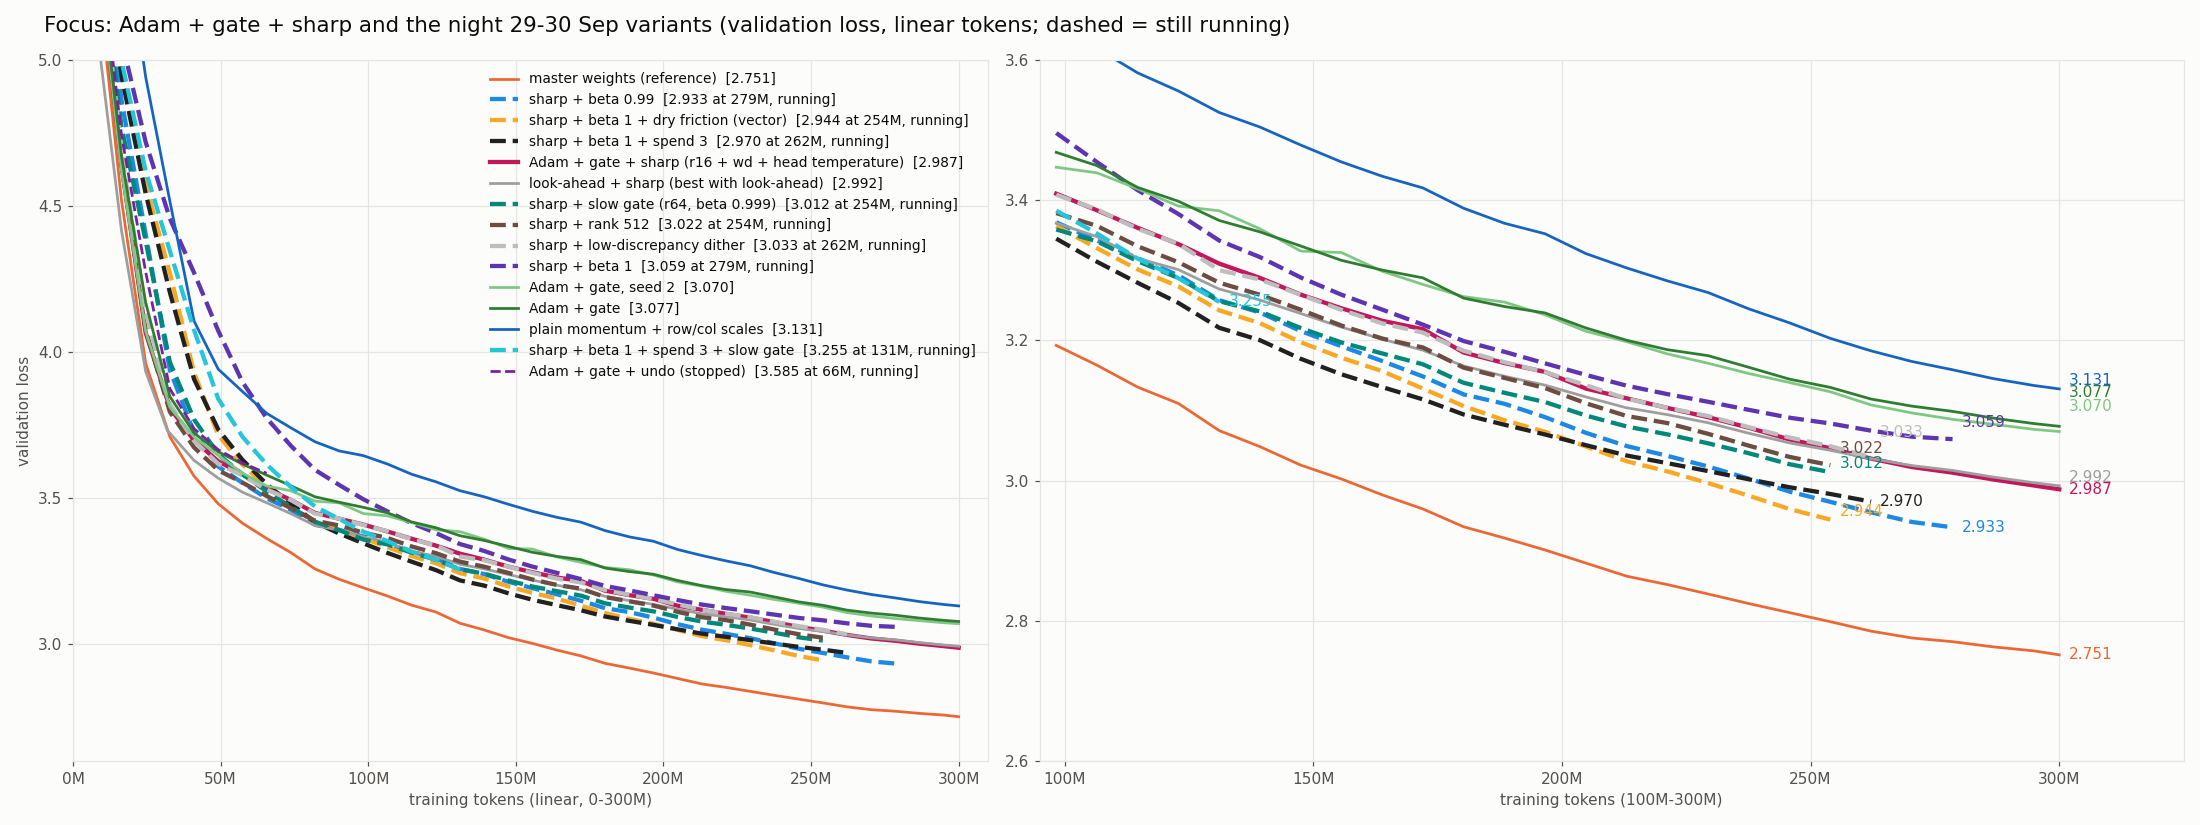
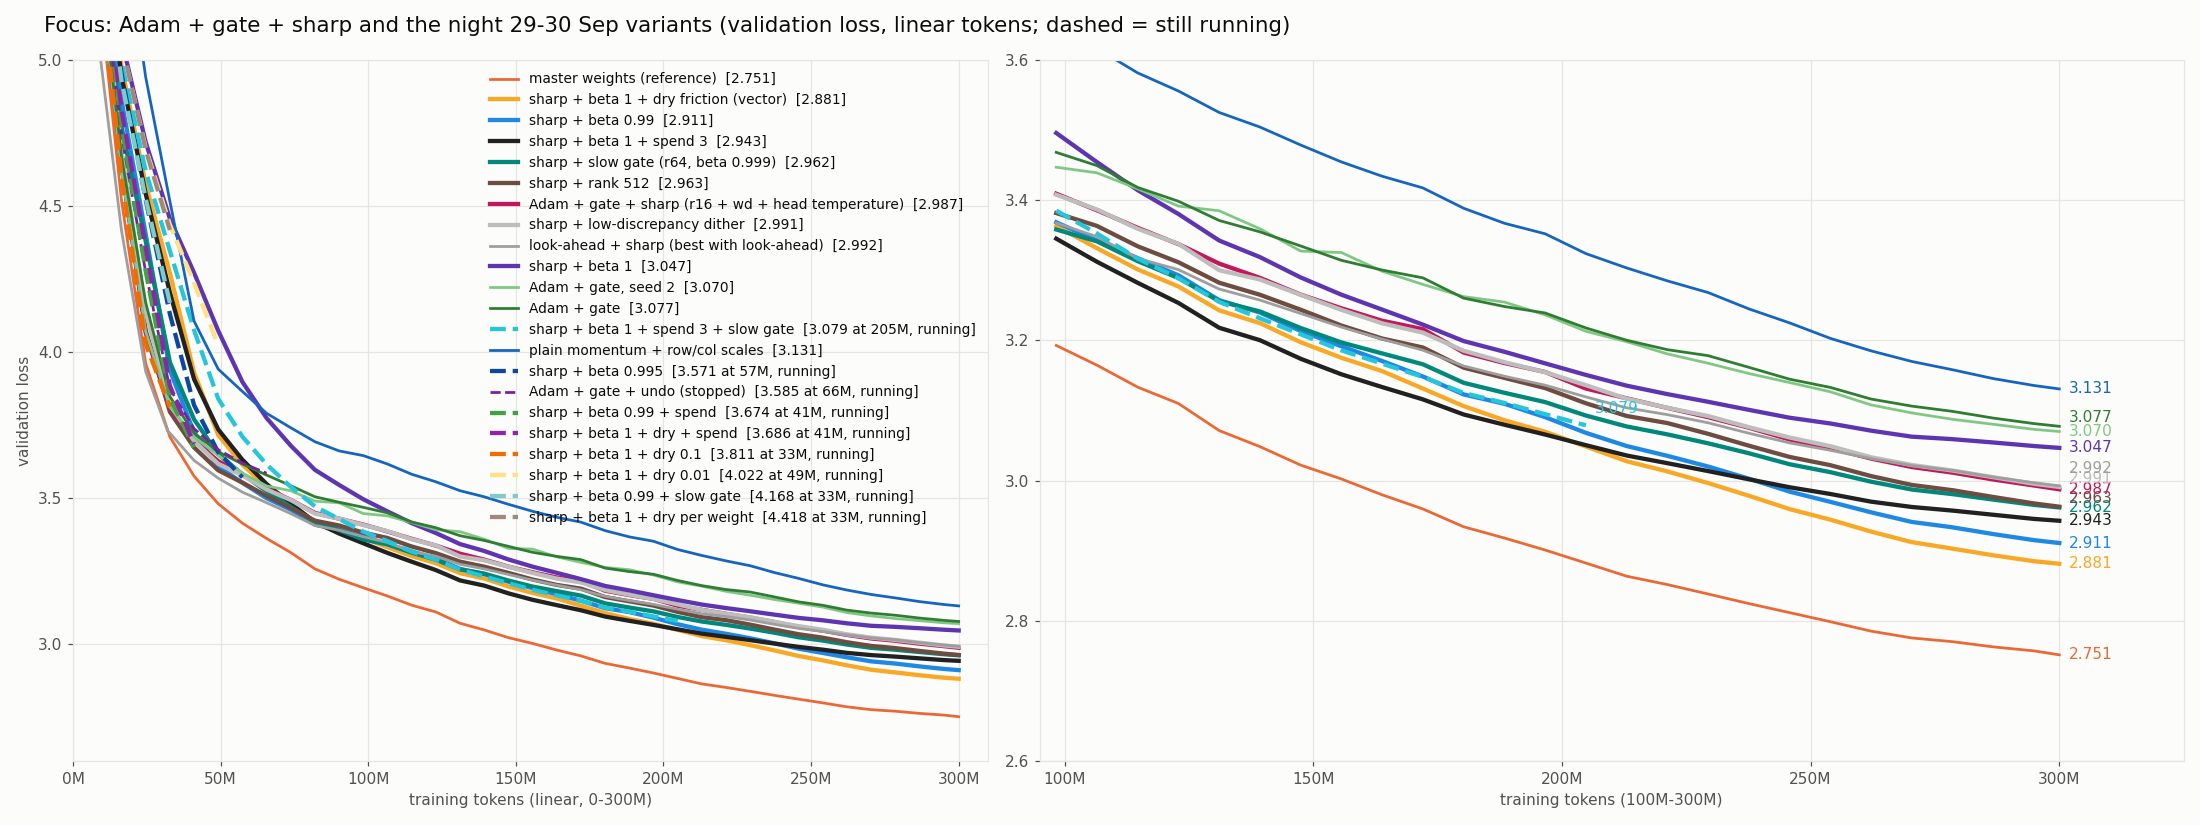
Night results: beta 1 + dry friction 2.8812 (gap to master 0.130); run index, overview

diff --git a/docs/overview/index.html b/docs/overview/index.html
@@ -157,15 +157,20 @@ ul.plain{margin:0; padding-left:18px; display:flex; flex-direction:column; gap:4
   <h2>What is running where</h2>
   <div class="tbl"><table>
     <tr><th>machine</th><th>run</th><th>what</th><th>expected</th></tr>
-    <tr><td>done</td><td class="mono">gvsharp_rc_s0</td><td><b>Adam + gate + sharp: 2.9875</b>, best without look-ahead (look-ahead + sharp 2.992; master 2.751). The base of tonight's runs</td><td class="num">01:45</td></tr>
-    <tr><td>mallard</td><td class="mono">gvsharp_b099_s0</td><td>sharp + β 0.99 (memory ~100 steps)</td><td class="num">~04:05</td></tr>
-    <tr><td>cackling</td><td class="mono">gvsharp_b1_s0</td><td>sharp + β 1 (no friction, relative flip rule, no cap)</td><td class="num">~04:05</td></tr>
-    <tr><td>harlequin</td><td class="mono">gvsharp_r512_s0</td><td>sharp + rank 512 (control: rank is not the limit)</td><td class="num">~04:15</td></tr>
-    <tr><td>gadwall</td><td class="mono">gvsharp_slowgate_s0</td><td>sharp + slow gate (rank-64 β 0.999 momentum must agree)</td><td class="num">~04:20</td></tr>
-    <tr><td>shoveler</td><td class="mono">gvsharp_dither_s0</td><td>sharp + low-discrepancy flip draw</td><td class="num">~04:10</td></tr>
-    <tr><td>pintail</td><td class="mono">gvsharp_dry_s0</td><td>sharp + β 1 + dry friction on the whole vector (1/33 per step)</td><td class="num">~04:15</td></tr>
-    <tr><td>mandarin</td><td class="mono">gvsharp_b1spend_s0</td><td>sharp + β 1 + spend 3 (a flip consumes the push that caused it)</td><td class="num">~04:10</td></tr>
-    <tr><td>bufflehead</td><td class="mono">gvsharp_b1spend_slowgate_s0</td><td>sharp + β 1 + spend 3 + slow gate</td><td class="num">~05:40</td></tr>
+    <tr><td>done</td><td class="mono">gvsharp_dry_s0</td><td><b>sharp + β 1 + dry friction on the vector: 2.8812</b>, best stateless run (base 2.9875, master 2.751: gap 0.236 → 0.130)</td><td class="num">04:15</td></tr>
+    <tr><td>done</td><td class="mono">gvsharp_b099_s0</td><td>sharp + β 0.99: 2.9108</td><td class="num">04:05</td></tr>
+    <tr><td>done</td><td class="mono">gvsharp_b1spend_s0</td><td>sharp + β 1 + spend 3: 2.9426 (−0.089 at 197M, faded)</td><td class="num">04:10</td></tr>
+    <tr><td>done</td><td class="mono">gvsharp_slowgate_s0 / gvsharp_r512_s0</td><td>slow gate 2.9615; rank 512 2.9627 (small)</td><td class="num">04:20</td></tr>
+    <tr><td>done</td><td class="mono">gvsharp_dither_s0 / gvsharp_b1_s0</td><td>dither 2.9908 (nothing); β 1 alone 3.0466 (worse)</td><td class="num">04:10</td></tr>
+    <tr><td>done</td><td class="mono">gvsharp_rc_s0</td><td>Adam + gate + sharp (the base): 2.9875</td><td class="num">01:45</td></tr>
+    <tr><td>bufflehead</td><td class="mono">gvsharp_b1spend_slowgate_s0</td><td>β 1 + spend + slow gate</td><td class="num">~05:40</td></tr>
+    <tr><td>mallard</td><td class="mono">gvsharp_b0995_s0</td><td>β 0.995</td><td class="num">~08:05</td></tr>
+    <tr><td>cackling</td><td class="mono">gvsharp_dry01_s0</td><td>β 1 + dry 0.01 (weaker friction)</td><td class="num">~08:05</td></tr>
+    <tr><td>gadwall</td><td class="mono">gvsharp_dry1_s0</td><td>β 1 + dry 0.1 (stronger friction)</td><td class="num">~08:25</td></tr>
+    <tr><td>shoveler</td><td class="mono">gvsharp_dryspend_s0</td><td>β 1 + dry + spend</td><td class="num">~08:15</td></tr>
+    <tr><td>mandarin</td><td class="mono">gvsharp_b099spend_s0</td><td>β 0.99 + spend</td><td class="num">~08:15</td></tr>
+    <tr><td>harlequin</td><td class="mono">gvsharp_dryw_s0</td><td>β 1 + dry friction per weight</td><td class="num">~08:30</td></tr>
+    <tr><td>pintail</td><td class="mono">gvsharp_b099slow_s0</td><td>β 0.99 + slow gate</td><td class="num">~08:30</td></tr>
   </table></div>
   <p class="meh" style="font-size:13px">Kept current in <code>docs/QUEUE.md</code>. No look-ahead in new runs unless there is a new reason.</p>
 </section>

diff --git a/scripts/plots/plot_focus.py b/scripts/plots/plot_focus.py
@@ -26,6 +26,13 @@ RUNS = [  # (run, label, colour)
     ("gvsharp_dry_s0", "sharp + beta 1 + dry friction (vector)", "#f9a825"),
     ("gvsharp_b1spend_s0", "sharp + beta 1 + spend 3", "#212121"),
     ("gvsharp_b1spend_slowgate_s0", "sharp + beta 1 + spend 3 + slow gate", "#26c6da"),
+    ("gvsharp_b0995_s0", "sharp + beta 0.995", "#0d47a1"),
+    ("gvsharp_dry01_s0", "sharp + beta 1 + dry 0.01", "#ffe082"),
+    ("gvsharp_dry1_s0", "sharp + beta 1 + dry 0.1", "#ef6c00"),
+    ("gvsharp_dryspend_s0", "sharp + beta 1 + dry + spend", "#8e24aa"),
+    ("gvsharp_b099spend_s0", "sharp + beta 0.99 + spend", "#43a047"),
+    ("gvsharp_dryw_s0", "sharp + beta 1 + dry per weight", "#a1887f"),
+    ("gvsharp_b099slow_s0", "sharp + beta 0.99 + slow gate", "#80cbc4"),
 ]
 
 

diff --git a/docs/RUN_INDEX.md b/docs/RUN_INDEX.md
@@ -109,11 +109,18 @@ ones: [QUEUE.md](QUEUE.md).
 | `grav05_gatevnorm_rc_s0` | asymmetric gravity 0.5 + gate + Adam step | 300M | 3.4972 |
 | `gvundo_rc_s0` | gate + Adam step + undo (`--undo`); stopped (undo reverses 2% of flips: inert) | 66M | 3.585 |
 | **`gvsharp_rc_s0`** | gate + Adam step + sharp (`--lowrank_mag add:16 --mag_wd 0.1 --qk_temp`): best without look-ahead, beats look-ahead + sharp (2.992) | 300M | **2.9875** |
-| `gvsharp_b099_s0` | sharp base + `--lr_beta 0.99` | running | - |
-| `gvsharp_b1_s0` | sharp base + `--lr_beta 1` (relative flip rule, no cap) | running | - |
-| `gvsharp_r512_s0` | sharp base + `--lowrank 512` | running | - |
-| `gvsharp_slowgate_s0` | sharp base + `--slow_gate 64 --slow_beta 0.999` | running | - |
-| `gvsharp_dither_s0` | sharp base + `--dither_ld` (low-discrepancy flip draw) | running | - |
-| `gvsharp_dry_s0` | sharp base + `--lr_beta 1 --dry_vec 0.0303` | running | - |
-| `gvsharp_b1spend_s0` | sharp base + `--lr_beta 1 --spend 3` | running | - |
+| `gvsharp_b099_s0` | sharp base + `--lr_beta 0.99` | 300M | 2.9108 |
+| `gvsharp_b1_s0` | sharp base + `--lr_beta 1` (relative flip rule, no cap) | 300M | 3.0466 |
+| `gvsharp_r512_s0` | sharp base + `--lowrank 512` | 300M | 2.9627 |
+| `gvsharp_slowgate_s0` | sharp base + `--slow_gate 64 --slow_beta 0.999` | 300M | 2.9615 |
+| `gvsharp_dither_s0` | sharp base + `--dither_ld` (low-discrepancy flip draw) | 300M | 2.9908 |
+| **`gvsharp_dry_s0`** | sharp base + `--lr_beta 1 --dry_vec 0.0303` | 300M | **2.8812** |
+| `gvsharp_b1spend_s0` | sharp base + `--lr_beta 1 --spend 3` | 300M | 2.9426 |
 | `gvsharp_b1spend_slowgate_s0` | sharp base + beta 1 + spend 3 + slow gate | running | - |
+| `gvsharp_b0995_s0` | sharp base + `--lr_beta 0.995` | running | - |
+| `gvsharp_dry01_s0` | sharp base + beta 1 + `--dry_vec 0.01` | running | - |
+| `gvsharp_dry1_s0` | sharp base + beta 1 + `--dry_vec 0.1` | running | - |
+| `gvsharp_dryspend_s0` | sharp base + beta 1 + dry 0.0303 + spend 3 | running | - |
+| `gvsharp_b099spend_s0` | sharp base + beta 0.99 + spend 3 | running | - |
+| `gvsharp_dryw_s0` | sharp base + beta 1 + `--dry_w 0.0303` (per weight) | running | - |
+| `gvsharp_b099slow_s0` | sharp base + beta 0.99 + slow gate | running | - |
